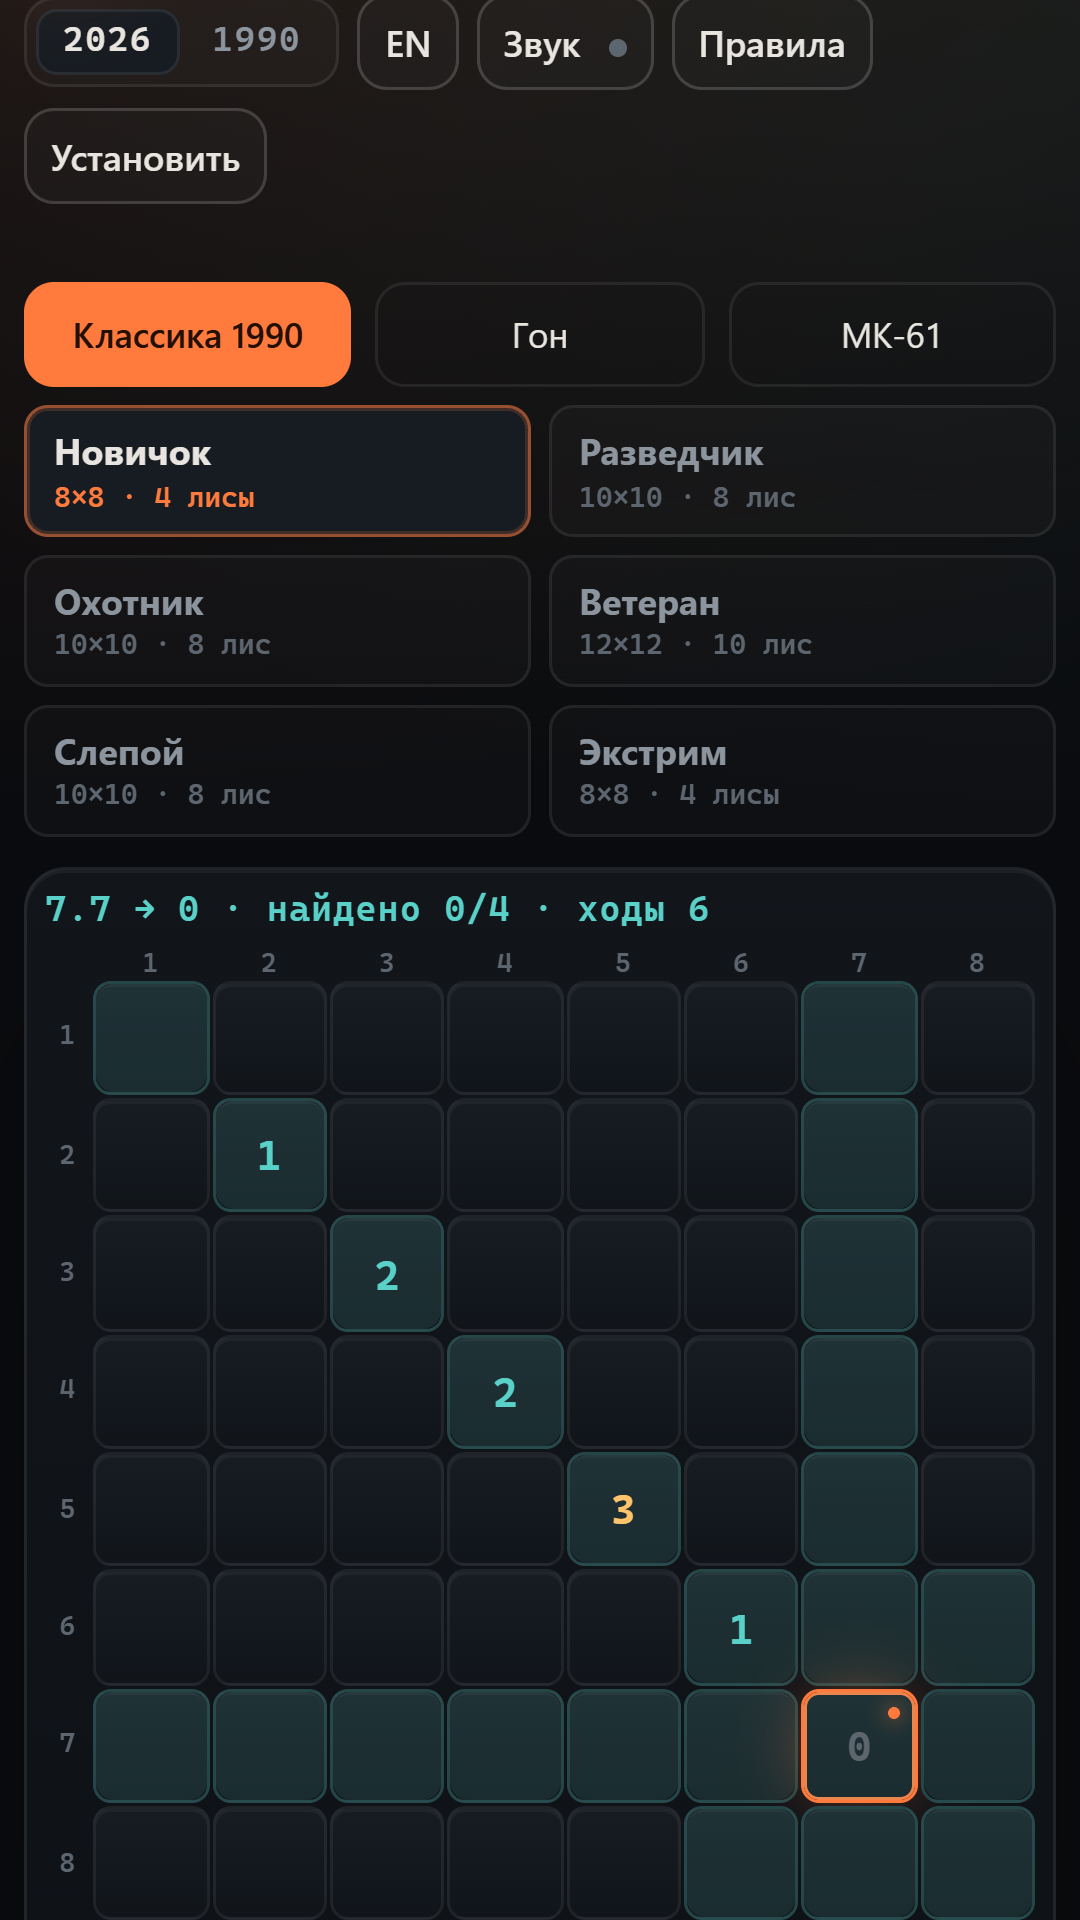
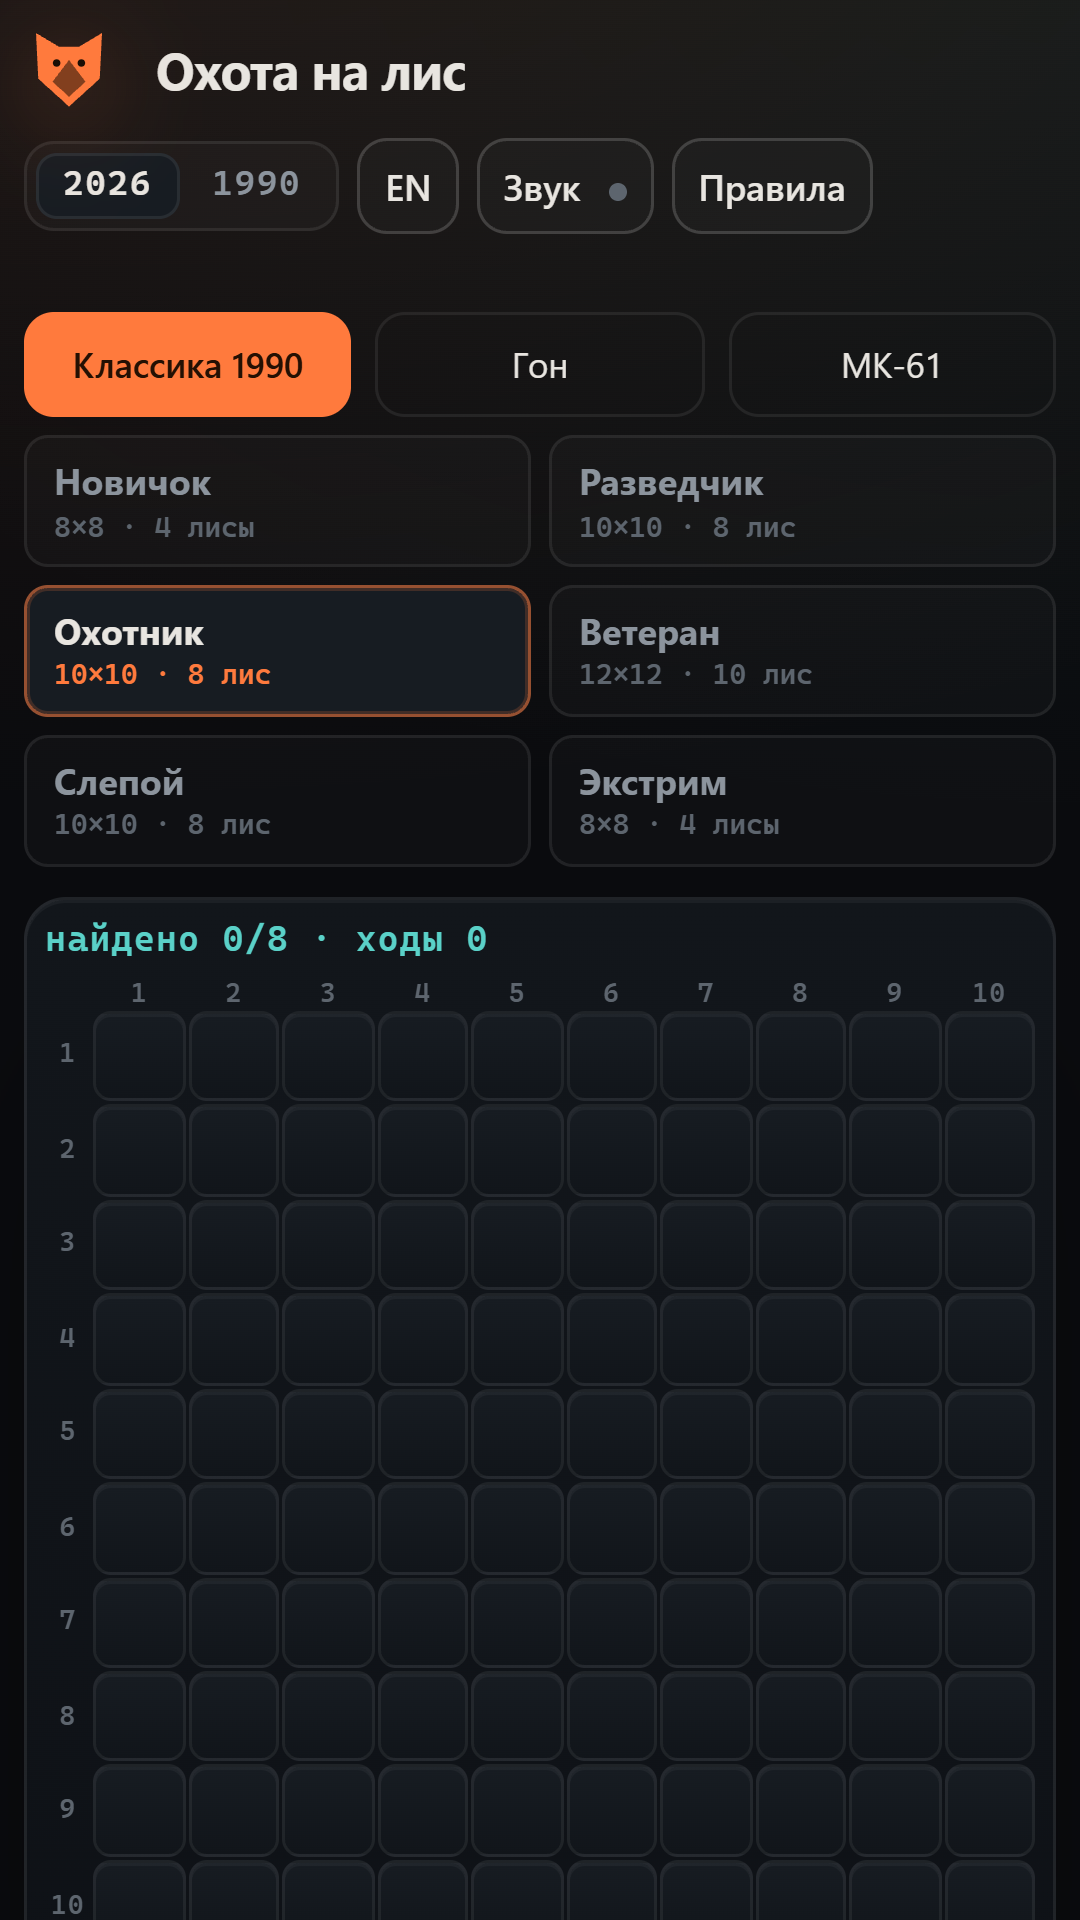
Скриншоты для планшета 1600x2560 (три), пересъёмка телефонных без кнопки браузерной установки

diff --git a/ru-store/README.md b/ru-store/README.md
@@ -10,6 +10,7 @@
 | APK | `https://github.com/Alexsey111/fox-hunt-1990/releases/latest/download/oxota-na-lis.apk` (638 КБ, подписан, sha256 `8d4f40b5…aa1b33`, versionName 1.0.7, minSdk 26) |
 | Иконка 512×512 | `assets/icons/icon-512.png` |
 | Скриншоты телефона | `ru-store/скриншоты/01-поле.png`, `02-правила.png`, `03-мк61.png` (1080×1920) |
+| Скриншоты планшета | `ru-store/скриншоты-планшет/01-поле.png`, `02-правила.png`, `03-мк61.png` (1600×2560) |
 | Краткое описание | `ru-store/описание-краткое.txt` (≤ 80 символов) |
 | Полное описание | `ru-store/описание-полное.txt` (~2 700 символов) |
 | Политика конфиденциальности | `https://alexsey111.github.io/fox-hunt-1990/privacy.html` |
@@ -49,7 +50,9 @@ APK собирается в GitHub Actions: Actions → workflow «android» →
      или канал МАКС. Здесь нужна ваша почта: вписать в консоль, в репозитории её держать
      не нужно.
    - **Медиафайлы** — иконка 512×512 (`.png`, до 3 МБ), не менее 3 скриншотов телефона
-     (у нас три по 1080×1920, максимум 2160×3840).
+     (у нас три по 1080×1920, максимум 2160×3840). Для планшетов — отдельный блок:
+     `ru-store/скриншоты-планшет/` (три по 1600×2560); если его не заполнить, RuStore
+     показывает телефонные снимки на всех устройствах.
 5. **«Отправить на модерацию»** (или «Сохранить как черновик» — черновик может быть только
    один). После проверки карточка появляется в каталоге.
 
